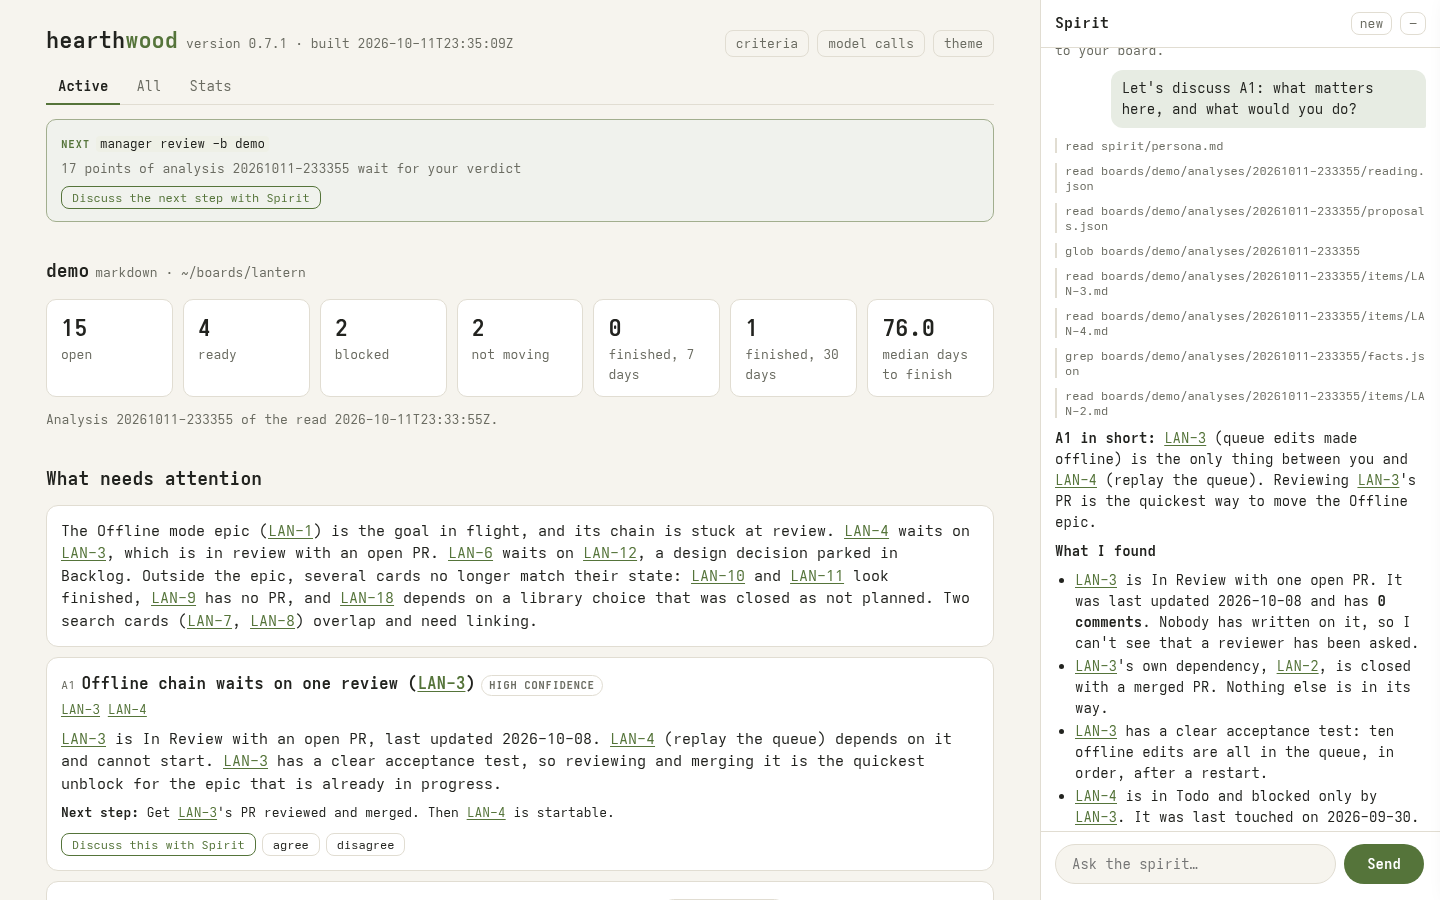
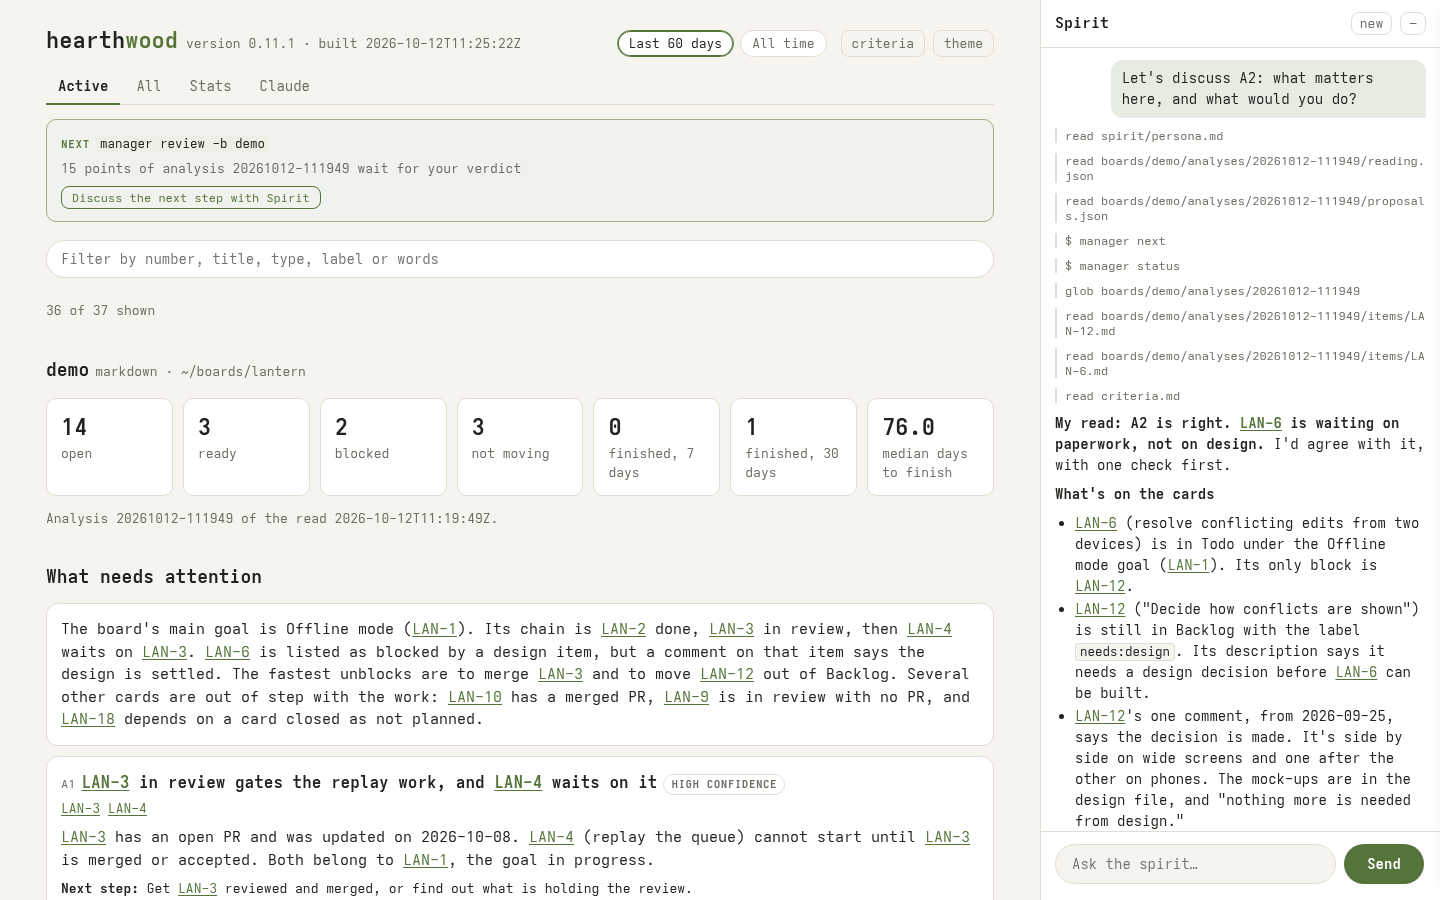
docs: a new screenshot of the 0.11 page (the view switch, four tabs, a reading that reads comments, the spirit on it) and a new social card

diff --git a/README.md b/README.md
@@ -16,7 +16,7 @@ laptop to your Jira board on the page, with no programming.
                                           └──── criteria.md ◄─────┴── verdicts ◄──┘
 ```
 
-![The page served by manager ui after one reading of the demo board: the tabs, the next step, the board's numbers, the summary and the first point of attention with Discuss this with Spirit, agree and disagree; on the right, the spirit discussing that point, with the cards it opened and what it found](docs/screenshot.png)
+![The page served by manager ui after one reading of the demo board: the view switch (last 60 days, all time) and the four tabs, the next step, the board's numbers, and the summary, which notes that a comment says a design decision is settled; on the right, the spirit discussing the second point, with the cards and the comment it read](docs/screenshot.png)
 
 It is the sister of [hearthwork](https://github.com/alexandr352/hearthwork), which runs
 development tickets. Hearthwood looks after the board those tickets live on.
